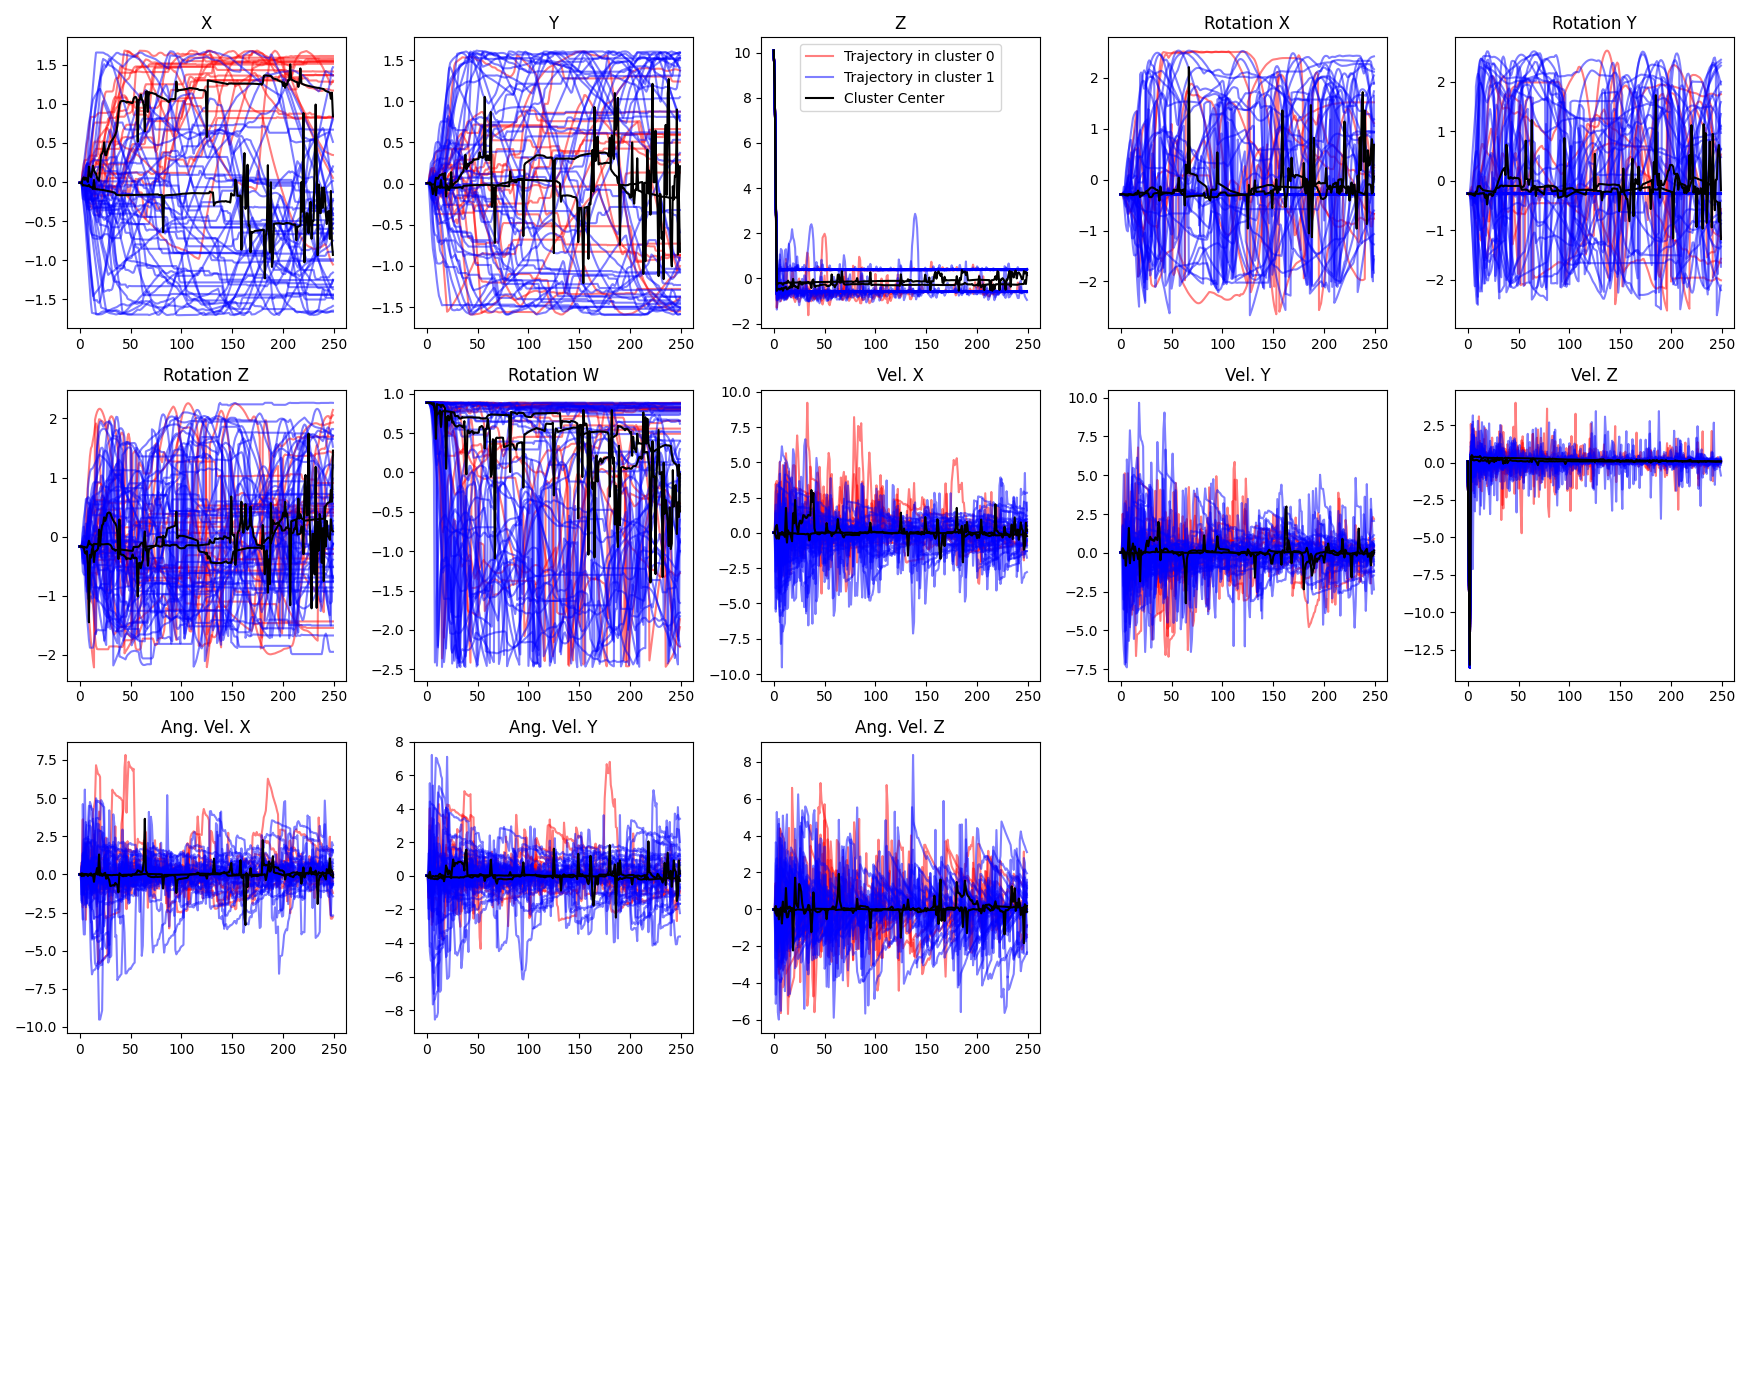
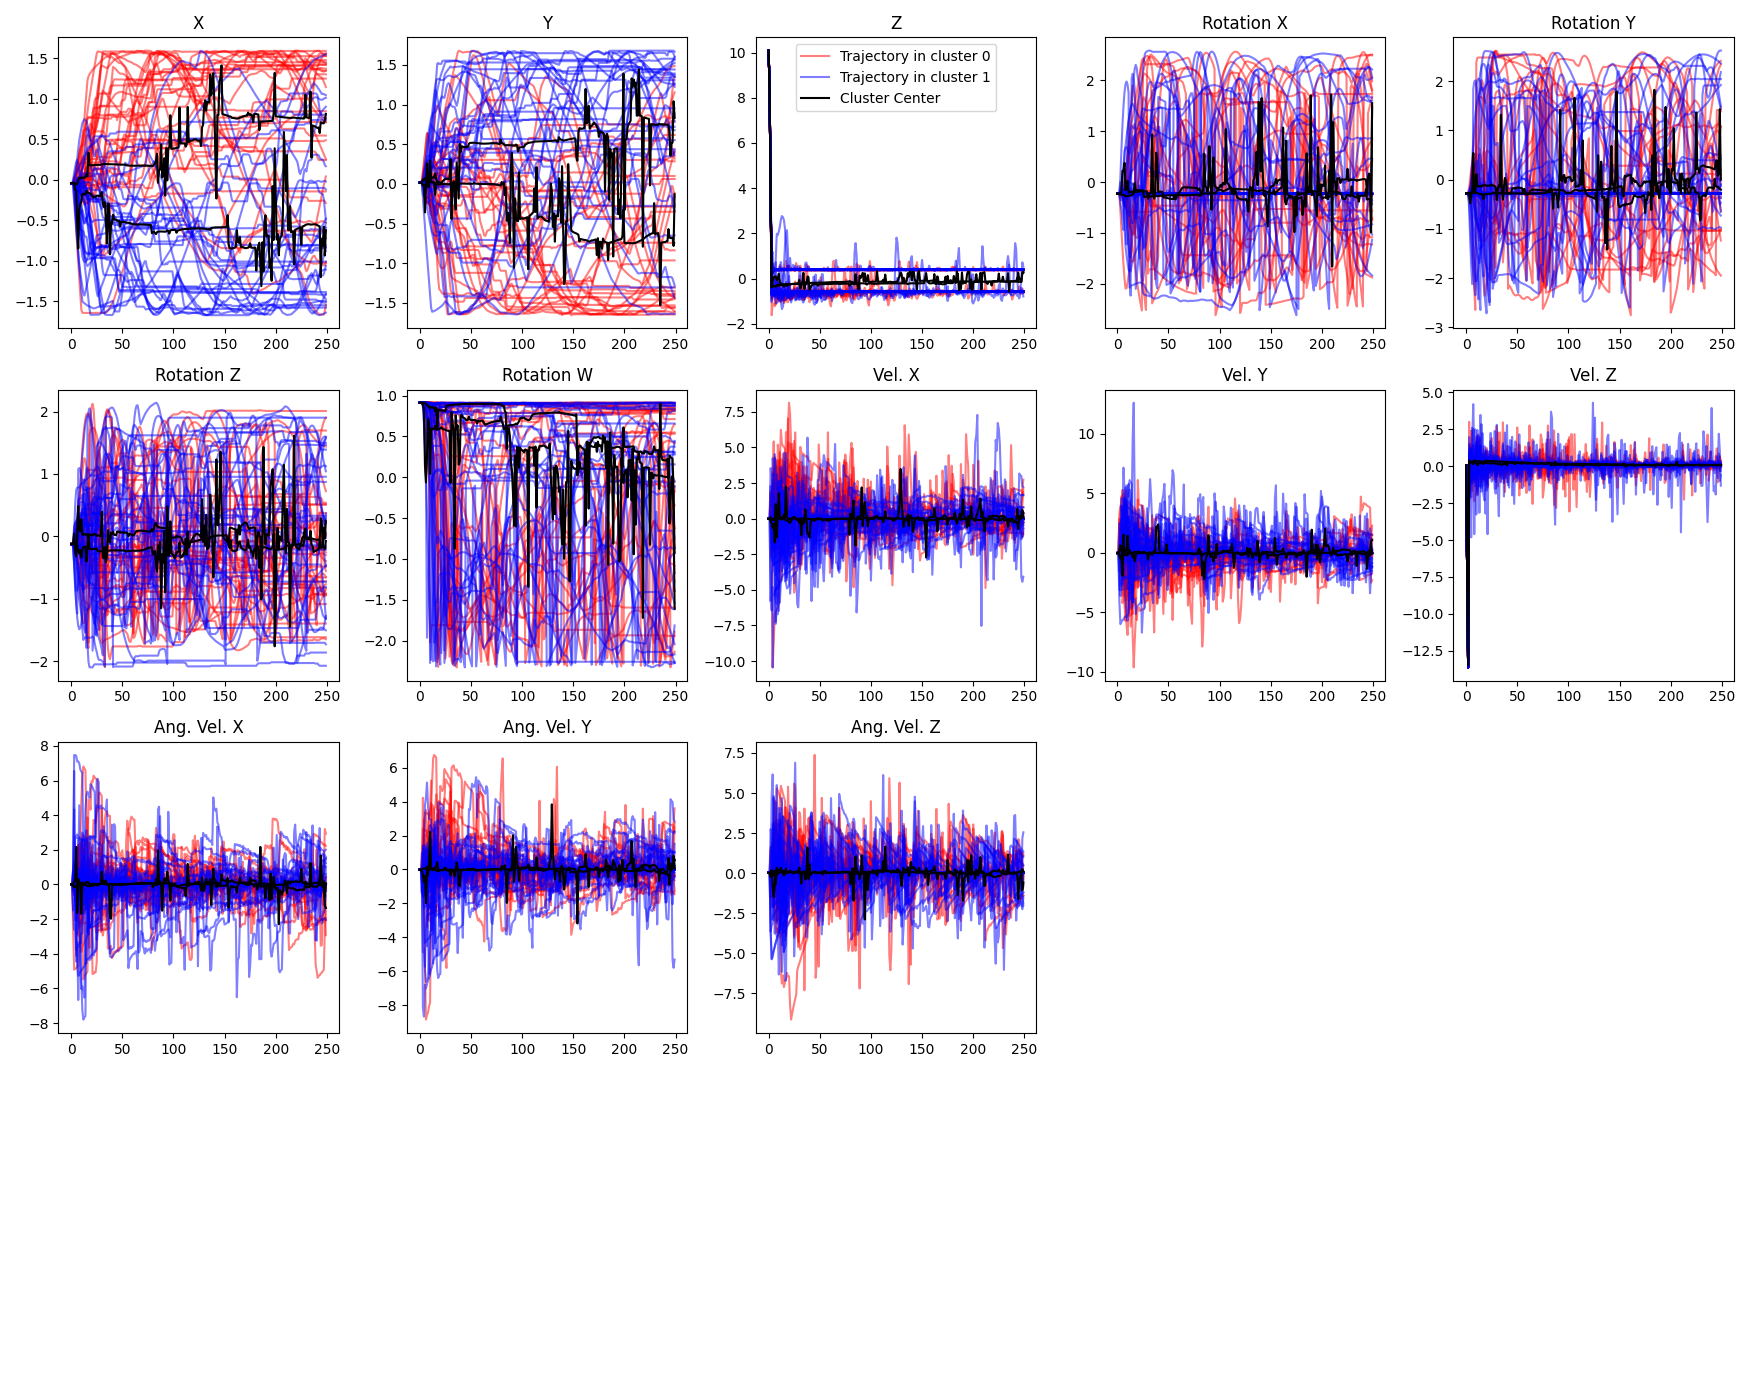
save videos, change in

diff --git a/test.py b/test.py
@@ -8,12 +8,17 @@ from stable_baselines3.common.vec_env import SubprocVecEnv
 from src.custom_task import MyOwnTask
 from src.CausalCuriousPPO import *
 from stable_baselines3.common.env_util import make_vec_env
+from moviepy.editor import *
+import os
+
 
 if __name__ == '__main__':
 
     # parameters ##
     seed = 22
     number_envs = 8
+    episodes_per_update = 8
+    total_timesteps = 1000_000
     ###############
 
 
@@ -39,23 +44,34 @@ if __name__ == '__main__':
     # train
     model = CausalCuriousPPO("MlpPolicy", env,
                              episode_length=env.get_attr("_max_episode_length", [0])[0] + 1, # this env returns the index of last step, we want total number of steps
-                             episodes_per_update=8, verbose=1)
-    model.learn(total_timesteps=1000_000)
+                             episodes_per_update=episodes_per_update, verbose=1)
+    model.learn(total_timesteps=total_timesteps)
+
+
 
 
     # plot result of learning
+    os.makedirs("results", exist_ok=True)
     plt.plot(model.timesteps, model.mean_distance_my_cluster, label="Cluster Size")
     plt.plot(model.timesteps, model.mean_distance_other_cluster, label="Cluster Separation")
     plt.xlabel("Env Interactions")
     plt.ylabel("Euclidean Distance")
     plt.title("Cluster Properties During Training")
     plt.legend()
-    plt.show()
+    plt.savefig("results/cluster_distances.png")
 
-    print(" FINISHED LEARNING" )
-    # show episode
-    obs = env.reset()
-    while True:
-        action, _states = model.predict(obs)
-        obs, rewards, dones, info = env.step(action)
-        env.render()
+    # show episode, save
+    seconds_per_frame = 0.1
+    base_file_name = "experiment"
+    for episode in range(10):
+        images = []
+        done = False
+        obs = env.reset()
+        while not done:
+            action, _states = model.predict(obs)
+            obs, rewards, dones, info = env.step(action)
+            frame = env.render(mode='rgb_array')
+            images.append(ImageClip(frame).set_duration(seconds_per_frame))
+            done = dones.any()
+        video = concatenate(images, method="compose")
+        video.write_videofile("results/{}_episode_{}.mp4".format(  base_file_name, episode), fps=24)

diff --git a/src/CausalCuriousPPO.py b/src/CausalCuriousPPO.py
@@ -13,7 +13,7 @@ from stable_baselines3.common.type_aliases import GymEnv, MaybeCallback, Schedul
 from stable_baselines3.common.utils import explained_variance, get_schedule_fn
 
 from .clustering_functions import cluster, format_obs, compute_distance_between_trajectory_and_cluster, \
-    get_distances_between_trajectories_and_clusters, normalize_distances
+    get_distances_between_trajectories_and_clusters, normalize_distances, get_change_in_distance
 
 SelfCausalCuriousPPO = TypeVar("SelfCausalCuriousPPO", bound="CausalCuriousPPO")
 
@@ -212,12 +212,15 @@ class CausalCuriousPPO(OnPolicyAlgorithm):
                                                                                                             data,
                                                                                                             verbose=False,
                                                                                                             plot=False)
+
+        change_in_distance_to_my_cluster, change_in_distance_to_other_cluster = get_change_in_distance(distance_to_my_cluster, distance_to_other_cluster)
+
         mean_distance_to_my_cluster = np.mean(distance_to_my_cluster)
         mean_distance_to_other_cluster = np.mean(distance_to_other_cluster)
 
         # normalize distances
-        distance_to_my_cluster = normalize_distances(distance_to_my_cluster)
-        distance_to_other_cluster = normalize_distances(distance_to_other_cluster)
+        distance_to_my_cluster = normalize_distances(change_in_distance_to_my_cluster)
+        distance_to_other_cluster = normalize_distances(change_in_distance_to_other_cluster)
 
         # create reward
         reward = distance_to_other_cluster - distance_to_my_cluster
@@ -228,7 +231,6 @@ class CausalCuriousPPO(OnPolicyAlgorithm):
         restacked_reward = [reward[n_envs * i: n_envs * (i+1)] for i in range(n_episodes)]
         reshaped_reward = np.transpose(np.concatenate(restacked_reward, axis = 1))
         self.rollout_buffer.rewards = reshaped_reward
-
         return mean_distance_to_my_cluster, mean_distance_to_other_cluster
 
          #return kmeans.inertia_ , compute_distance_between_trajectory_and_cluster(kmeans.cluster_centers_[0], kmeans.cluster_centers_[1])

diff --git a/src/clustering_functions.py b/src/clustering_functions.py
@@ -169,3 +169,12 @@ def get_reward(norm_dist_own, norm_dist_other):
 
 
 
+def get_change_in_distance(distance_to_my_cluster, distance_to_other_cluster):
+    distance_to_my_cluster[:, :-1] = distance_to_my_cluster[:, 1:] - distance_to_my_cluster[:, :-1]
+    distance_to_other_cluster[:, :-1] = distance_to_other_cluster[:, 1:] - distance_to_other_cluster[:, :-1]
+
+    distance_to_my_cluster[:, -1] = 0.0
+    distance_to_other_cluster[:, -1] = 0.0
+
+
+    return distance_to_my_cluster, distance_to_other_cluster
